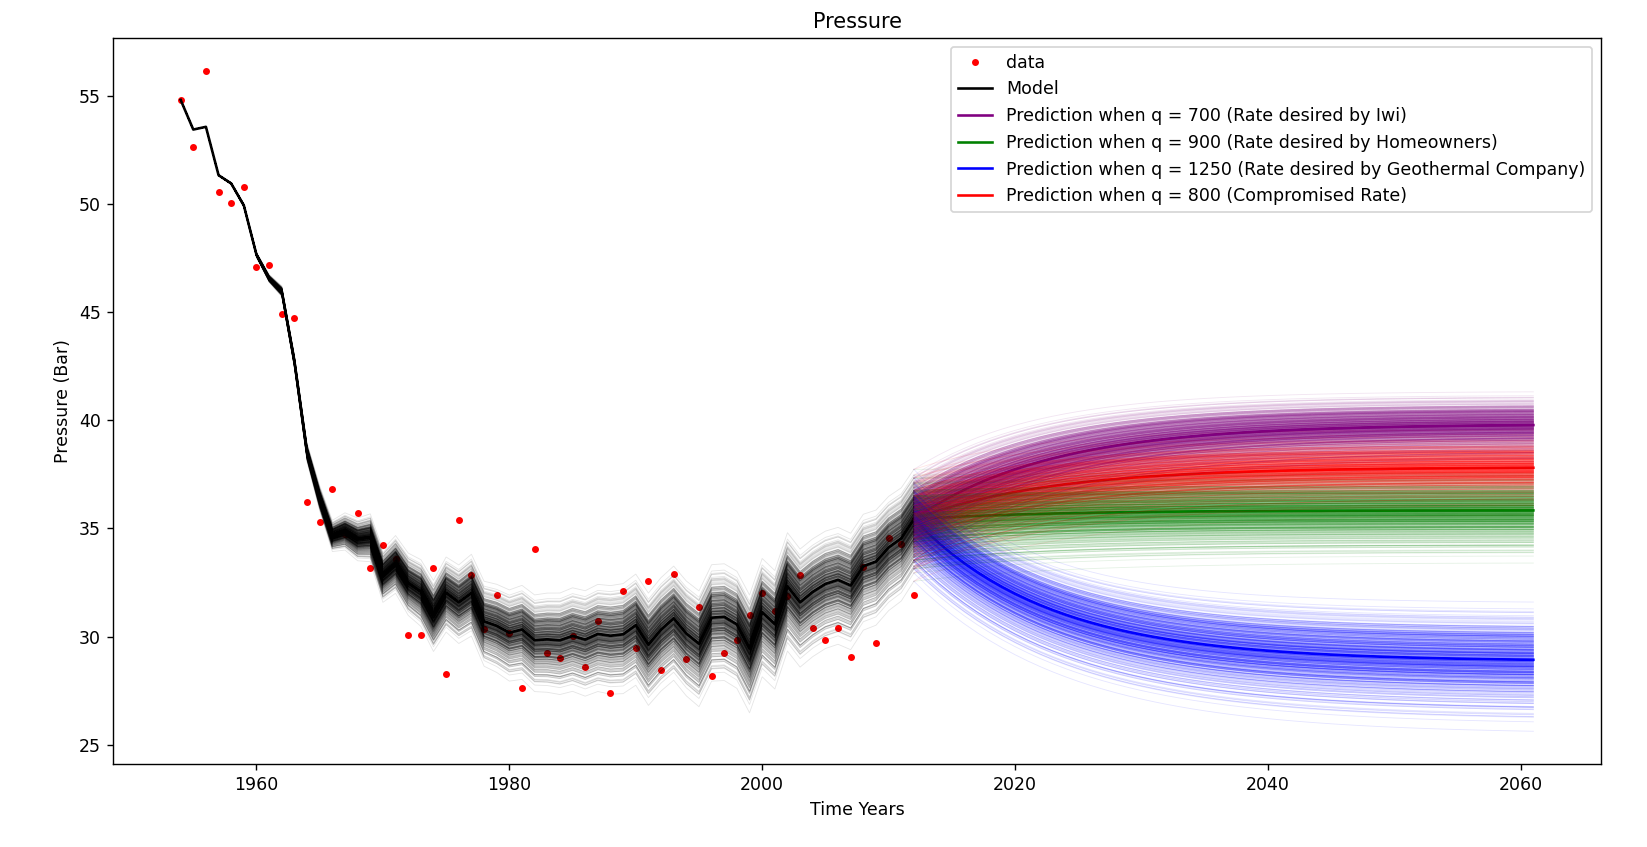
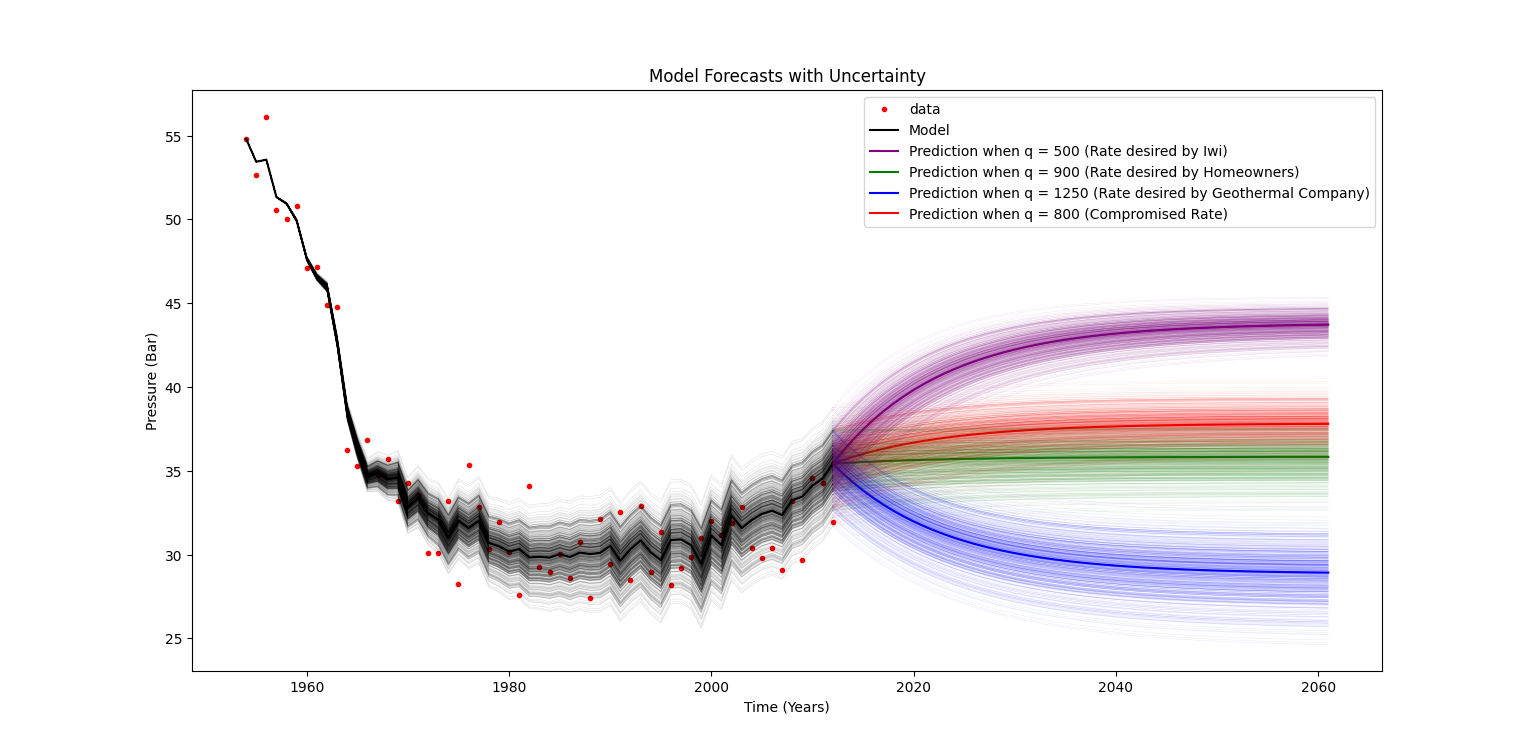
New plots

diff --git a/plot.py b/plot.py
@@ -141,7 +141,7 @@ def x_curve_fitting(t, a, b, c, x0):
     dt = t[1] - t[0]
 
     # read in time and dependent variable information
-    [t,q,x_e] = np.genfromtxt("TotalDataSet.csv",delimiter=',',skip_header=1).T
+    [t, q, x_e] = np.genfromtxt("TotalDataSet.csv", delimiter=',', skip_header=1).T
 
     # initialise x
     x = [x_e[0]]
@@ -454,9 +454,9 @@ def plot_x_forecast():
     xi = x_e[-1]  # Initial value of x is final value of model fit
 
     # Solve ODE prediction for scenario 1 (Iwi)
-    q1 = 700  # heat up again
+    q1 = 500  # heat up again
     x1 = solve_ode_prediction(ode_model, t1[0], t1[-1], t1[1] - t1[0], xi, q1, a, b, c, 0, x0)[1]
-    ax1.plot(t1, x1, 'purple', label='Prediction when q = 700 (Iwi)')
+    ax1.plot(t1, x1, 'purple', label='Prediction when q = 500 (Iwi)')
 
     # Solve ODE prediction for scenario 2 (Homeowners)
     q2 = 900  # keep q the same
@@ -467,6 +467,10 @@ def plot_x_forecast():
     q3 = 1250  # extract at faster rate
     x3 = solve_ode_prediction(ode_model, t1[0], t1[-1], t1[1] - t1[0], xi, q3, a, b, c, 0, x0)[1]
     ax1.plot(t1, x3, 'blue', label='Prediction when q = 1250 (Geothermal Company)')
+
+    q4 = 800
+    x4 = solve_ode_prediction(ode_model, t1[0], t1[-1], t1[1] - t1[0], xi, q4, a, b, c, 0, x0)[1]
+    ax1.plot(t1, x4, 'red', label='Prediction when q = 800 (Compromised Rate)')
 
     # Axis information
     ax1.set_title('Pressure Forecast')
@@ -489,7 +493,7 @@ def plot_x_uncertainty():
     c = 0.006336076723279304
     x0 = 53.77866150176843
     pars = [a, b, c, x0]
-    [t,q,x] = np.genfromtxt("TotalDataSet.csv",delimiter=',',skip_header=1).T
+    [t, q, x] = np.genfromtxt("TotalDataSet.csv", delimiter=',', skip_header=1).T
 
     # # Optimise parameters for model fit
     # pars, pars_cov = x_pars(pars_guess)
@@ -516,9 +520,9 @@ def plot_x_uncertainty():
     xi = x_e[-1]  # Initial value of x is final value of model fit
 
     # Solve ODE prediction for scenario 1 (Iwi)
-    q1 = 700  # heat up again
+    q1 = 500  # heat up again
     x1 = solve_ode_prediction(ode_model, t1[0], t1[-1], t1[1] - t1[0], xi, q1, a, b, c, 0, x0)[1]
-    ax1.plot(t1, x1, 'purple', label='Prediction when q = 700 (Rate desired by Iwi)')
+    ax1.plot(t1, x1, 'purple', label='Prediction when q = 500 (Rate desired by Iwi)')
 
     # Solve ODE prediction for scenario 2 (Homeowners)
     q2 = 900  # keep q the same
@@ -536,11 +540,9 @@ def plot_x_uncertainty():
     ax1.plot(t1, x4, 'red', label='Prediction when q = 800 (Compromised Rate)')
 
     # Variance
-    # var = 0.000961
-    var = calculate_variance()
-
     # using Normal function to generate 500 random samples from a Gaussian distribution
-    samples = np.random.normal(b, var, 500)
+    std_dev = 0.0055
+    samples = np.random.normal(b, std_dev, 500)
 
     # initialise list to count parameters for histograms
     b_list = []
@@ -555,36 +557,27 @@ def plot_x_uncertainty():
         xi = x[-1]
 
         # Solve ODE prediction for scenario 1
-        q1 = 700  # heat up again
+        q1 = 500  # heat up again
         x1 = solve_ode_prediction(ode_model, t1[0], t1[-1], t1[1] - t1[0], xi, q1, a, samples[i], c, 0, x0)[1]
-        ax1.plot(t1, x1, 'purple', alpha=0.1, lw=0.5)
+        ax1.plot(t1, x1, 'purple', alpha=0.1, lw=0.3)
 
         # Solve ODE prediction for scenario 2
         q2 = 900  # keep q the same
         x2 = solve_ode_prediction(ode_model, t1[0], t1[-1], t1[1] - t1[0], xi, q2, a, samples[i], c, 0, x0)[1]
-        ax1.plot(t1, x2, 'green', alpha=0.1, lw=0.5)
+        ax1.plot(t1, x2, 'green', alpha=0.1, lw=0.3)
 
         # Solve ODE prediction for scenario 3
         q3 = 1250  # extract at faster rate
         x3 = solve_ode_prediction(ode_model, t1[0], t1[-1], t1[1] - t1[0], xi, q3, a, samples[i], c, 0, x0)[1]
-        ax1.plot(t1, x3, 'blue', alpha=0.1, lw=0.5)
+        ax1.plot(t1, x3, 'blue', alpha=0.1, lw=0.3)
 
         q4 = 800
         x4 = solve_ode_prediction(ode_model, t1[0], t1[-1], t1[1] - t1[0], xi, q4, a, samples[i], c, 0, x0)[1]
-        ax1.plot(t1, x4, 'red', alpha=0.1, lw=0.5)
+        ax1.plot(t1, x4, 'red', alpha=0.1, lw=0.3)
 
-        # q5 = 400
-        # x5 = solve_ode_prediction(ode_model, t1[0], t1[2], t1[1] - t1[0], xi, q5, a, samples[i], c, 0, x0)[
-        #     1]
-        # ax1.plot(t1[:3], x5, 'orange', alpha=0.1, lw=0.5)
-        #
-        # q6 = 900
-        # x6 = solve_ode_prediction(ode_model, t1[2], t1[-1], t1[1] - t1[0], x5[-1], q6, a, samples[i], c, 0, x0)[1]
-        # ax1.plot(t1[2:], x6, 'orange', alpha=0.1, lw=0.5)
-
-    ax1.set_title('Pressure')
+    ax1.set_title('Model Forecasts with Uncertainty')
     ax1.set_ylabel('Pressure (Bar)')
-    ax1.set_xlabel('Time Years')
+    ax1.set_xlabel('Time (Years)')
     ax1.legend()
 
     # plotting the histograms
@@ -617,6 +610,5 @@ def calculate_variance():
 
     # Step 4: Divide the sum by the total number of data points to get the variance
     variance = sum_squared_diff / len(data_points)
-
-    print(f"The variance of the dataset is: {variance}")
+    print(f"The StdDev of the dataset is: {variance}")
     return variance

diff --git a/main.py b/main.py
@@ -7,7 +7,7 @@ if __name__ == "__main__":
     # plot_suitable()
 
     # ODE model with improved parameter values from curve_fit
-    # plot_improve()
+    plot_improve()
 
     plot_x_forecast()
     plot_x_uncertainty()
